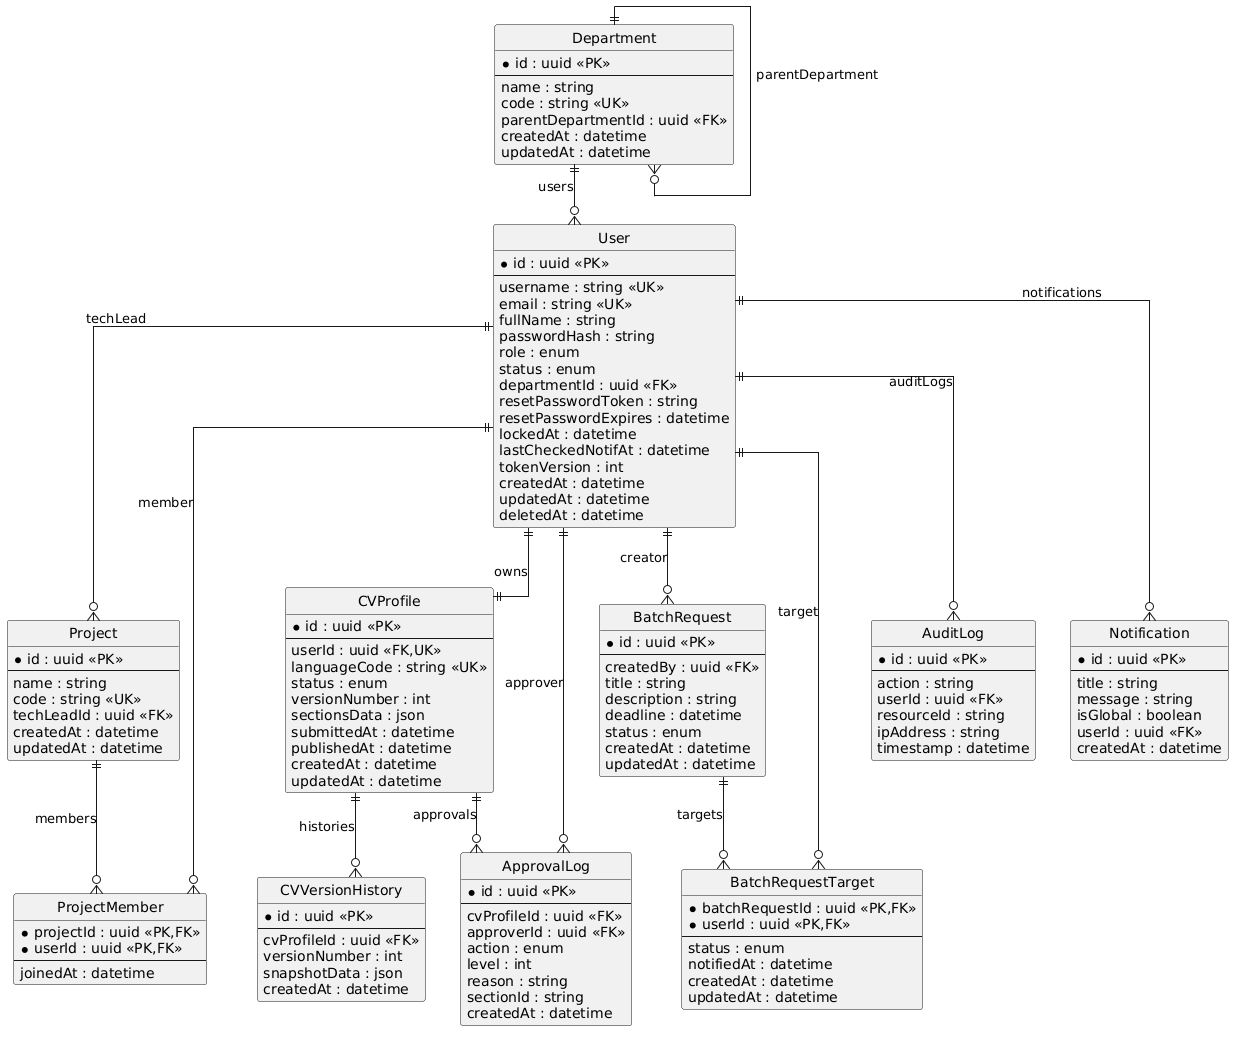
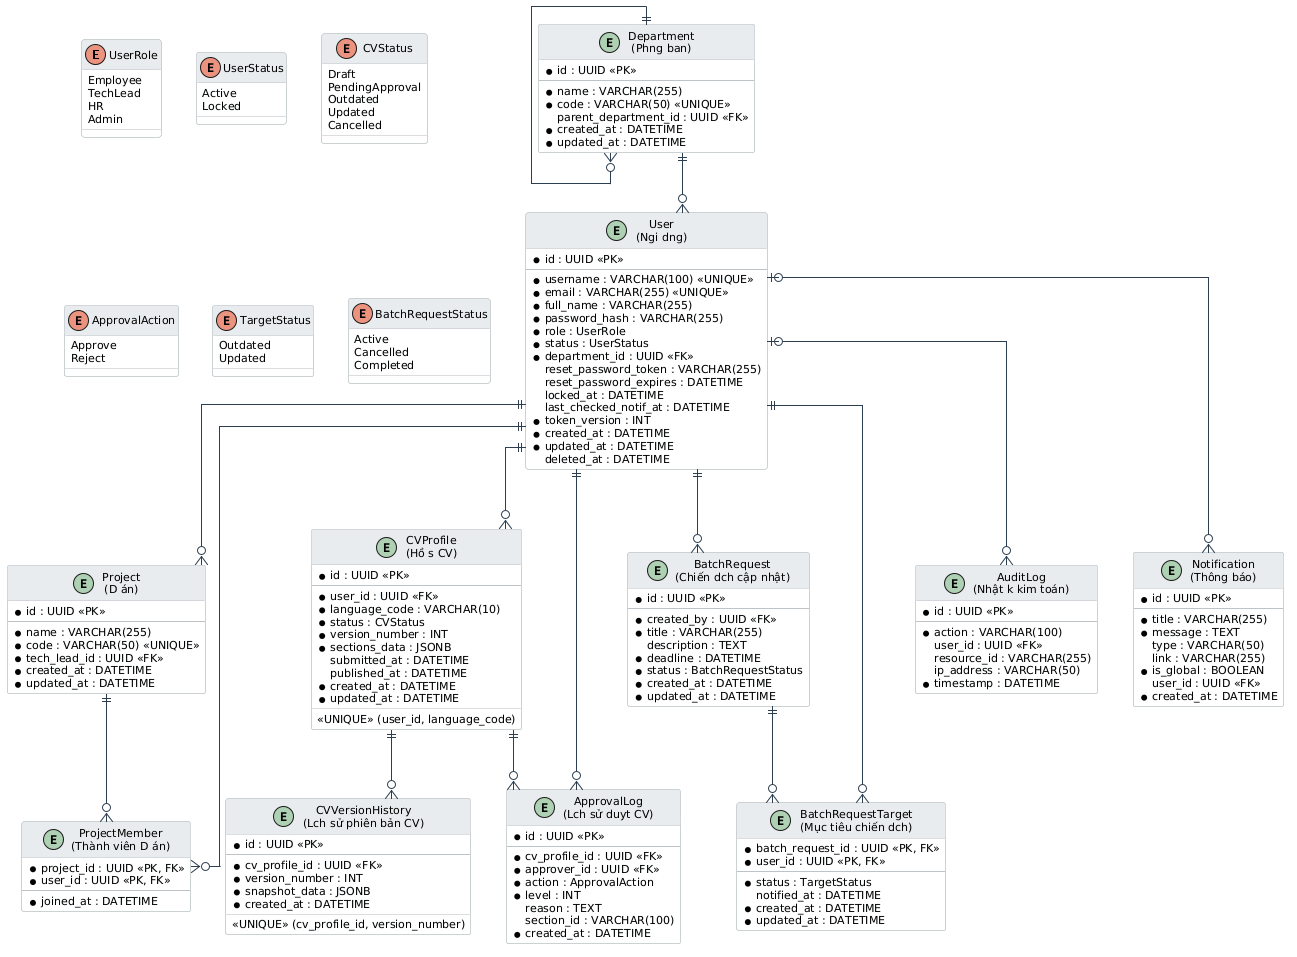
Externalize rate limits and frontend URL config
Make the backend more configurable by moving hardcoded rate limits and frontend URL to environment variables. This allows different deployment environments (dev, staging, production) to have different rate limiting strategies and frontend URLs without code changes.

Additionally, add comprehensive ERD documentation in PlantUML format and significantly expand the project report with detailed sections on Clean Architecture, asynchronous processing, security/authorization, database design decisions, and future development roadmap.

diff --git a/code/backend/src/app.ts b/code/backend/src/app.ts
@@ -7,6 +7,7 @@ import cookieParser from 'cookie-parser';
 import xss from 'xss-clean';
 import rateLimit from 'express-rate-limit';
 import { errorHandler } from './middleware/error.middleware';
+import { env } from './config/env';
 
 const app: Express = express();
 
@@ -28,7 +29,7 @@ app.use(xss());
 // Global Rate Limiter
 const globalLimiter = rateLimit({
   windowMs: 60 * 1000, // 1 minute
-  max: 100, // Limit each IP to 100 requests per windowMs
+  max: parseInt(env.RATE_LIMIT_GLOBAL_MAX, 10), // Limit each IP per windowMs
   message: { message: 'Too many requests from this IP, please try again after a minute' },
   standardHeaders: true,
   legacyHeaders: false,
@@ -40,7 +41,7 @@ if (process.env.NODE_ENV !== 'test') {
 // Auth Limiter
 const authLimiter = rateLimit({
   windowMs: 15 * 60 * 1000, // 15 minutes
-  max: 5, // Limit each IP to 5 requests per windowMs
+  max: parseInt(env.RATE_LIMIT_AUTH_MAX, 10), // Limit each IP per windowMs
   message: { message: 'Bạn đã thao tác quá nhiều lần. Vui lòng thử lại sau 15 phút.' },
   standardHeaders: true,
   legacyHeaders: false,

diff --git a/code/backend/src/modules/auth/auth.service.ts b/code/backend/src/modules/auth/auth.service.ts
@@ -11,6 +11,7 @@ import { emailQueue } from '../notification/notification.queue';
 import { getResetPasswordTemplate } from '../notification/mailer';
 import { BadRequestError } from '../../errors/AppError';
 import { AuditService } from '../audit/audit.service';
+import { env } from '../../config/env';
 
 const auditService = new AuditService();
 
@@ -120,7 +121,7 @@ export class AuthService {
       },
     });
 
-    const resetUrl = `http://localhost:5173/reset-password?token=${resetToken}`;
+    const resetUrl = `${env.FRONTEND_URL}/reset-password?token=${resetToken}`;
     const message = getResetPasswordTemplate(resetUrl);
 
     await emailQueue.add('forgot-password', {

diff --git a/code/backend/src/modules/notification/mailer.ts b/code/backend/src/modules/notification/mailer.ts
@@ -62,7 +62,7 @@ export const sendEmail = async (to: string, subject: string, html: string) => {
 export const getSubmitCVTemplate = (username: string, cvId: string) => `
   <h2>Có CV Mới Được Nộp</h2>
   <p>Nhân viên <strong>${username}</strong> vừa nộp một CV mới để chờ phê duyệt.</p>
-  <p><a href="http://localhost:5173/admin/cvs/${cvId}">Xem CV tại đây</a></p>
+  <p><a href="${env.FRONTEND_URL}/admin/cvs/${cvId}">Xem CV tại đây</a></p>
 `;
 
 export const getRejectCVTemplate = (reason: string) => `

diff --git a/code/backend/src/config/env.ts b/code/backend/src/config/env.ts
@@ -17,6 +17,9 @@ const envSchema = z.object({
   SMTP_PORT: z.string().optional(),
   SMTP_USER: z.string().optional(),
   SMTP_PASS: z.string().optional(),
+  RATE_LIMIT_GLOBAL_MAX: z.string().default('100'),
+  RATE_LIMIT_AUTH_MAX: z.string().default('5'),
+  FRONTEND_URL: z.string().default('http://localhost:5173'),
 });
 
 const _env = envSchema.safeParse(process.env);
